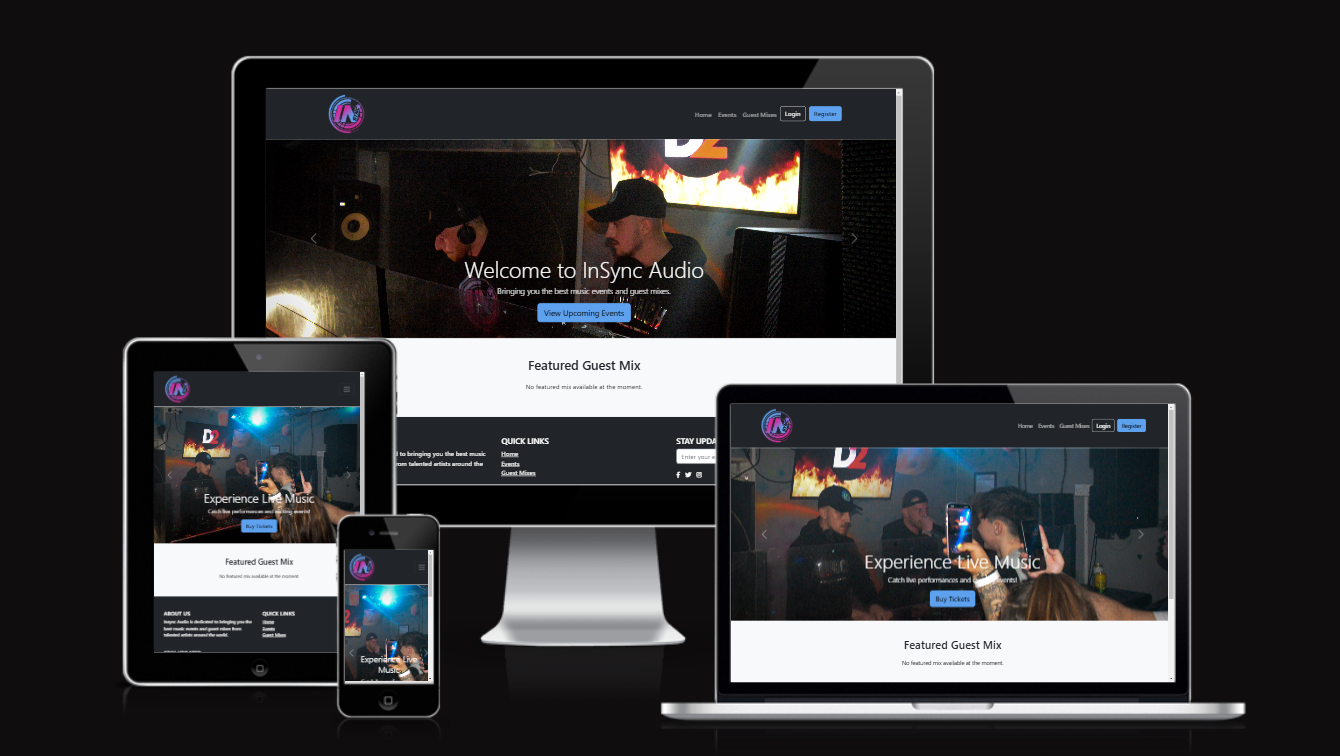
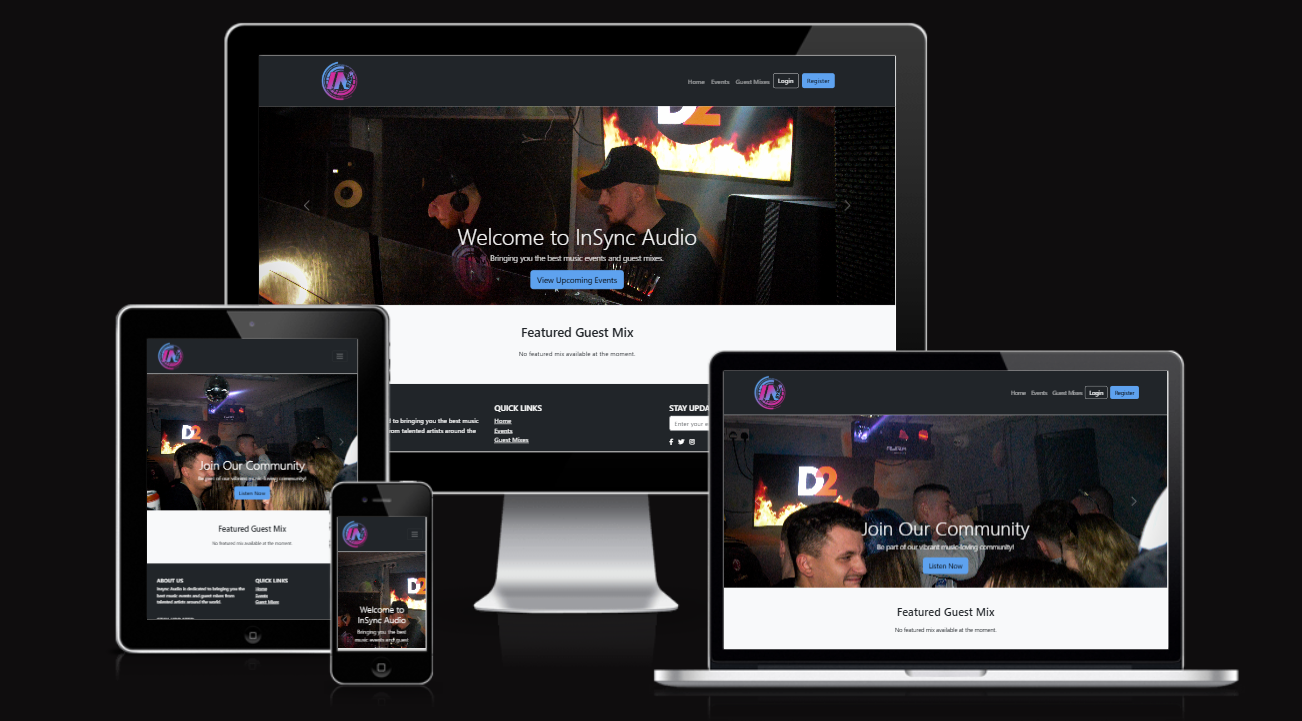
Add custom css to hide scroll, upload new responsive image

Changed region(s): [[0.0614, 0.0305, 0.9524, 0.9764]]

diff --git a/static/css/styles.css b/static/css/styles.css
@@ -2,4 +2,12 @@ body {
 overflow-x: hidden;
 width: 100vw;
 max-width: 100vw;
+overflow-y: auto; /* Ensure scrolling works */
+  scrollbar-width: none; /* Firefox */
 }
+
+body::-webkit-scrollbar {
+    width: 0px; /* For Chrome, Safari, and Edge */
+    height: 0px;
+    background: transparent; /* hides the scrollbar background */
+  }
